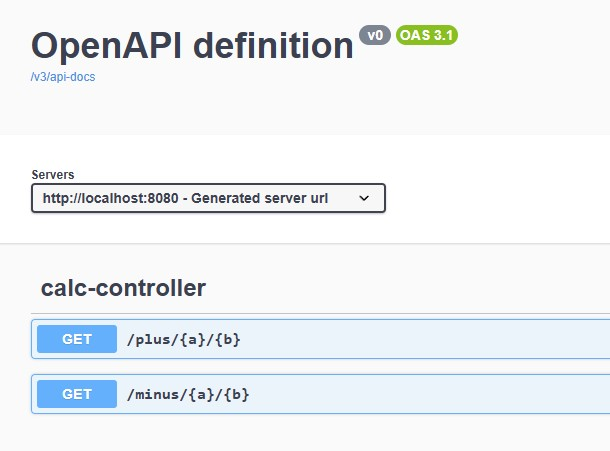
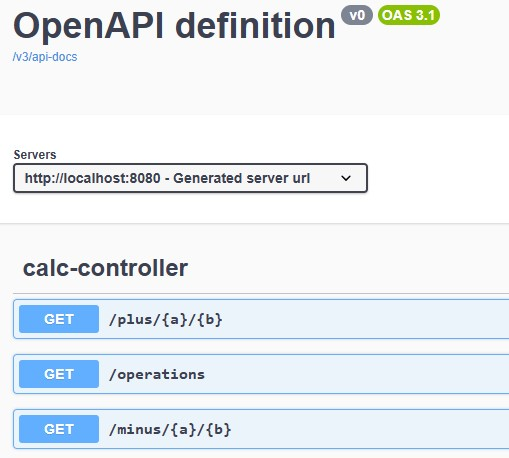
Updated README.md

Changed region(s): [[0.0, 0.5588, 1.0, 0.9933], [0.0, 0.3104, 0.7367, 0.4967], [0.0295, 0.0, 0.8841, 0.1863]]

diff --git a/README.md b/README.md
@@ -12,6 +12,10 @@
 
 ![screenshot 3.jpg](img/screenshot%203.jpg)
 
+### Эндпоинт "operations"
+
+![screenshot 4.jpg](img/screenshot%204.jpg)
+
 # Задание 2. Big Data
 
 ## Описание БД
